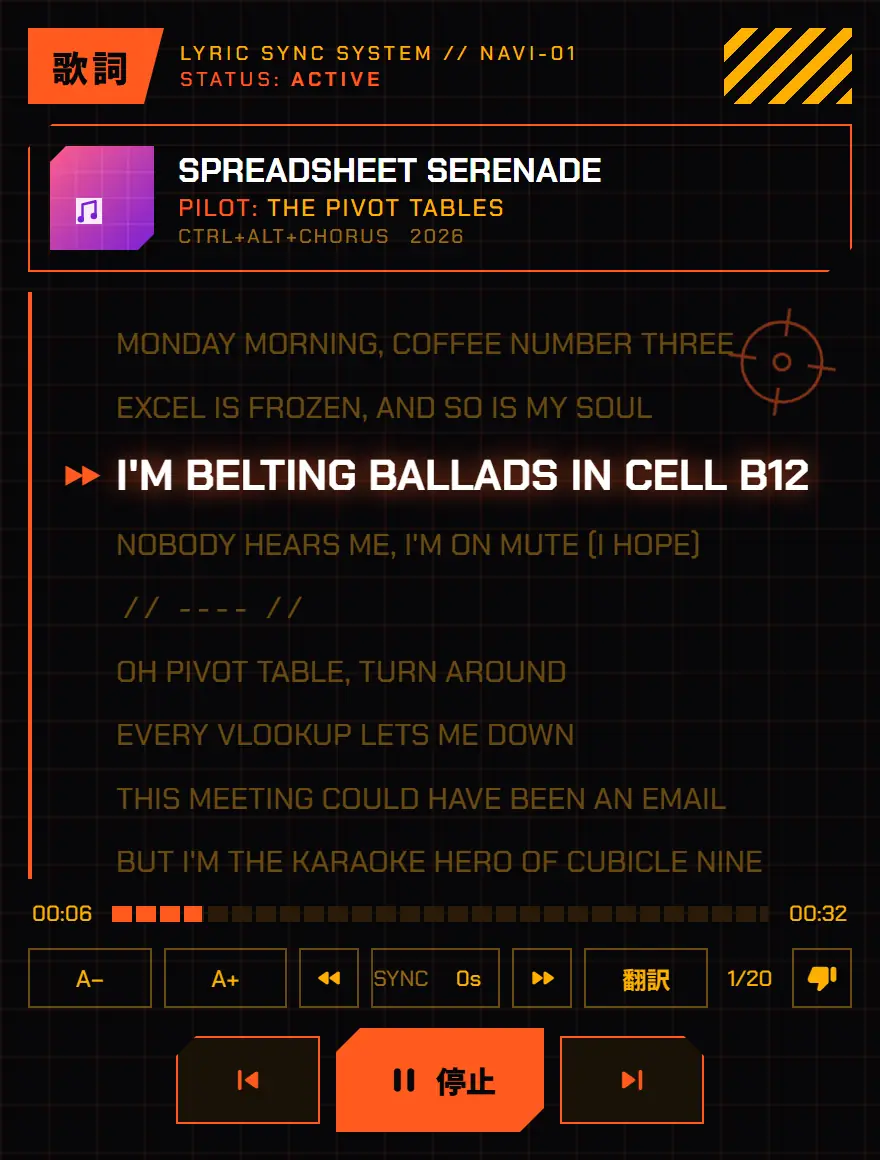
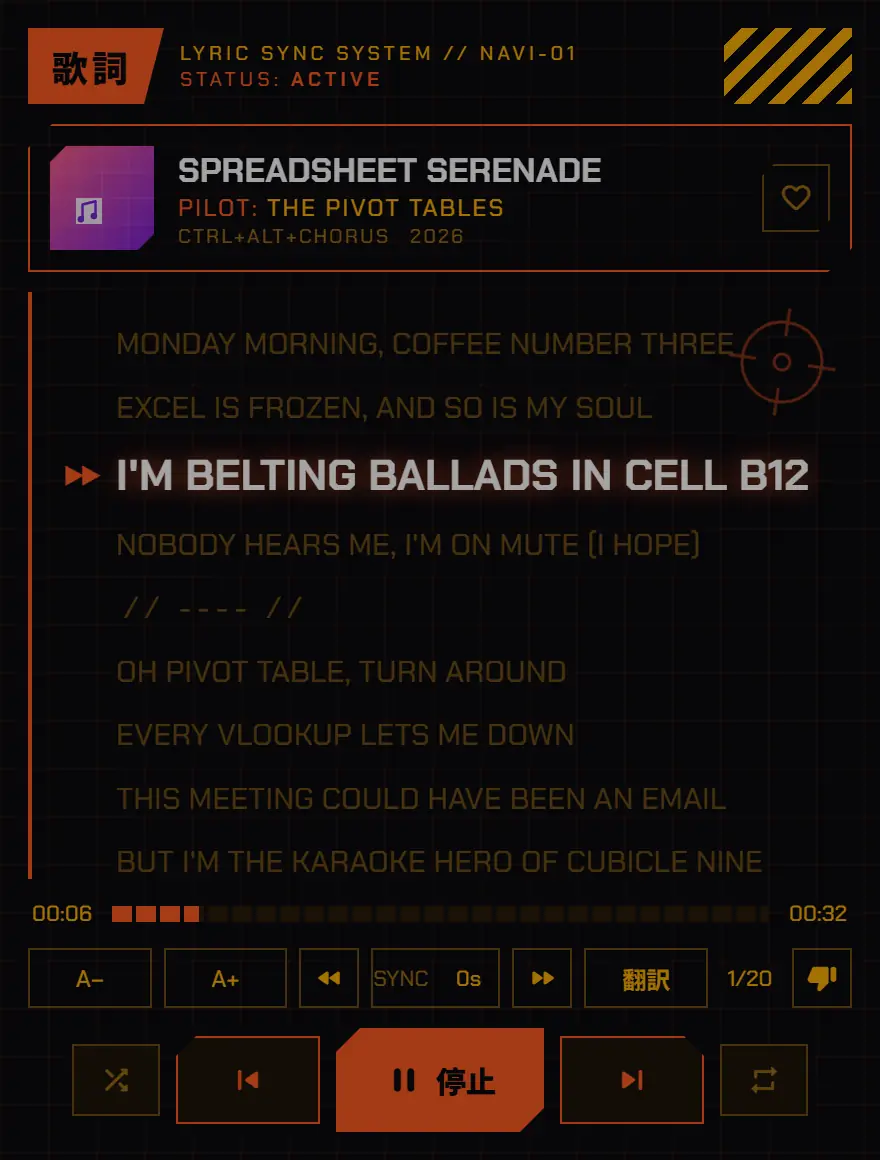
feat(landing): el demo muestra los controles nuevos de la v1.7.0
Las skins sincronizadas ya traían btn-like, btn-shuffle y btn-repeat, pero
con hidden: la extensión los muestra solo si la plataforma los soporta
(setupExtraControls) y el demo no replicaba ese paso. Tampoco tenía la
barra de tiempo interactiva.

- Me gusta / aleatorio / repetir visibles en todas las skins y con el mismo
  estado que la extensión: aria-pressed, data-repeat (off -> all -> one),
  íconos alternos (like/liked, repeat/repeat_one) y etiqueta del modo de
  repetición en EN/ES.
- Barra de tiempo: versión del demo de setupSeekBar. Pista = padre de
  #progress-bar, área de captura +-8 px, el salto ocurre al soltar (durante
  el arrastre solo se mueve la barra), role="slider" con flechas de 5 s,
  Home y End. Listeners en el document para sobrevivir a los cambios de skin.
- Capturas del carrusel (assets/skins/*.webp) regeneradas con
  scripts/capture-skins.py para que las tarjetas laterales también muestren
  los botones.

diff --git a/skins/demo.js b/skins/demo.js
@@ -26,6 +26,7 @@
       previous: 'Previous', searchingLyrics: 'Searching lyrics...', syncEarlier: 'Sync earlier',
       syncLater: 'Sync later', translateLyrics: 'Translate lyrics',
       likeSong: 'Like song', shuffle: 'Shuffle', repeat: 'Repeat',
+      repeatOff: 'Repeat: off', repeatAll: 'Repeat: all', repeatOne: 'Repeat: one',
     },
     es: {
       adPlaying: 'Anuncio en reproducción...', decreaseFontSize: 'Reducir tamaño de fuente',
@@ -33,6 +34,7 @@
       next: 'Siguiente', playPause: 'Reproducir/Pausar', previous: 'Anterior', searchingLyrics: 'Buscando letra...',
       syncEarlier: 'Sincronizar antes', syncLater: 'Sincronizar después', translateLyrics: 'Traducir letra',
       likeSong: 'Me gusta', shuffle: 'Aleatorio', repeat: 'Repetir',
+      repeatOff: 'Repetir: desactivado', repeatAll: 'Repetir: todas', repeatOne: 'Repetir: una',
     },
   };
 
@@ -102,6 +104,9 @@
     visible: true,
     translated: false,
     fontDelta: 0,
+    liked: false,
+    shuffle: false,
+    repeat: 'off', // off -> all -> one, como cycleRepeat en los adapters
     offset: 0,
     version: 1,
     activeIndex: -1,
@@ -233,7 +238,46 @@
       btn.classList.add('btn-dislike-cycle');
       setTimeout(() => btn.classList.remove('btn-dislike-cycle'), 600);
     });
+
+    // Me gusta / aleatorio / repetir (v1.7.0). Vienen con hidden en todas las skins y la
+    // extensión los muestra solo si la plataforma los soporta (setupExtraControls en
+    // content.entry.js); en el demo se muestran siempre, con el mismo estado:
+    // aria-pressed, data-repeat e íconos alternos.
+    ['btn-like', 'btn-shuffle', 'btn-repeat'].forEach((id) => { if ($(id)) $(id).hidden = false; });
+    on('btn-like', () => { state.liked = !state.liked; renderExtras(); });
+    on('btn-shuffle', () => { state.shuffle = !state.shuffle; renderExtras(); });
+    on('btn-repeat', () => {
+      const modes = ['off', 'all', 'one'];
+      state.repeat = modes[(modes.indexOf(state.repeat) + 1) % modes.length];
+      renderExtras();
+    });
+    renderExtras();
     renderPlay();
+    setupSeekTrack();
+  }
+
+  function renderExtras() {
+    const toggleIcons = (btn, showSel, hideSel) => {
+      btn.querySelectorAll(showSel).forEach((el) => { el.style.display = ''; });
+      btn.querySelectorAll(hideSel).forEach((el) => { el.style.display = 'none'; });
+    };
+    const like = $('btn-like');
+    if (like) {
+      like.setAttribute('aria-pressed', String(state.liked));
+      if (state.liked) toggleIcons(like, '.liked-icon', '.like-icon');
+      else toggleIcons(like, '.like-icon', '.liked-icon');
+    }
+    $('btn-shuffle')?.setAttribute('aria-pressed', String(state.shuffle));
+    const repeat = $('btn-repeat');
+    if (repeat) {
+      repeat.dataset.repeat = state.repeat;
+      repeat.setAttribute('aria-pressed', String(state.repeat !== 'off'));
+      if (state.repeat === 'one') toggleIcons(repeat, '.repeat-one-icon', '.repeat-icon');
+      else toggleIcons(repeat, '.repeat-icon', '.repeat-one-icon');
+      const label = MESSAGES[state.lang][{ off: 'repeatOff', all: 'repeatAll', one: 'repeatOne' }[state.repeat]];
+      repeat.title = label;
+      repeat.setAttribute('aria-label', label);
+    }
   }
 
   function on(id, fn) { $(id)?.addEventListener('click', fn); }
@@ -344,10 +388,96 @@
     last = now;
     if (state.playing && state.visible && $('lyrics-container')) {
       state.time = (state.time + dt) % DURATION;
-      render();
+      // Durante el arrastre de la barra solo se mueve la barra (como isSeekingBar)
+      if (!seeking) render();
     }
     requestAnimationFrame(tick);
   }
+
+  // Barra de tiempo interactiva (v1.7.0), versión del demo de setupSeekBar en
+  // content.entry.js: la pista es el padre de #progress-bar, área de captura ±8px por
+  // geometría (las pistas miden 1-14px), el salto ocurre al soltar y ←/→ mueven 5 s.
+  const SEEK_HIT_PAD = 8;
+  const SEEK_KEY_STEP = 5;
+  let seeking = false;
+
+  const getTrack = () => {
+    const track = $('progress-bar')?.parentElement;
+    return track && track !== document.body ? track : null;
+  };
+
+  function setupSeekTrack() {
+    const track = getTrack();
+    if (!track) return;
+    track.classList.add('navi-seekable');
+    track.setAttribute('role', 'slider');
+    track.tabIndex = 0;
+    track.setAttribute('aria-label', state.lang === 'es' ? 'Barra de tiempo' : 'Seek bar');
+    track.setAttribute('aria-valuemin', '0');
+    track.setAttribute('aria-valuemax', String(Math.round(DURATION)));
+  }
+
+  function paintSeek(time) {
+    const bar = $('progress-bar');
+    if (bar) bar.style.width = `${Math.min(100, (time / DURATION) * 100)}%`;
+    if ($('current-time')) $('current-time').textContent = fmt(time);
+    getTrack()?.setAttribute('aria-valuenow', String(Math.round(time)));
+  }
+
+  function commitSeek(time) {
+    state.time = Math.max(0, Math.min(DURATION - 0.5, time));
+    paintSeek(state.time);
+    render();
+  }
+
+  const ratioAt = (t, clientX) => {
+    const r = t.getBoundingClientRect();
+    return r.width > 0 ? Math.max(0, Math.min(1, (clientX - r.left) / r.width)) : 0;
+  };
+  const hitsTrack = (t, e) => {
+    const r = t.getBoundingClientRect();
+    return e.clientX >= r.left && e.clientX <= r.right &&
+      e.clientY >= r.top - SEEK_HIT_PAD && e.clientY <= r.bottom + SEEK_HIT_PAD;
+  };
+
+  // En el document: sobrevive a los cambios de skin (mount reemplaza el body)
+  document.addEventListener('pointerdown', (e) => {
+    if (e.button !== 0) return;
+    const t = getTrack();
+    if (!t || !hitsTrack(t, e)) return;
+    // No robarle el clic a un botón vecino que cae dentro del margen
+    if (e.target !== t && e.target.closest?.('button, a, input')) return;
+    e.preventDefault();
+    seeking = true;
+    t.classList.add('is-seeking');
+    paintSeek(ratioAt(t, e.clientX) * DURATION);
+
+    const onMove = (ev) => paintSeek(ratioAt(t, ev.clientX) * DURATION);
+    const onUp = (ev) => {
+      document.removeEventListener('pointermove', onMove);
+      document.removeEventListener('pointerup', onUp);
+      document.removeEventListener('pointercancel', onUp);
+      t.classList.remove('is-seeking');
+      seeking = false;
+      if (ev.type === 'pointerup') commitSeek(ratioAt(t, ev.clientX) * DURATION);
+    };
+    document.addEventListener('pointermove', onMove);
+    document.addEventListener('pointerup', onUp);
+    document.addEventListener('pointercancel', onUp);
+  }, true);
+
+  document.addEventListener('keydown', (e) => {
+    const t = getTrack();
+    if (!t || e.target !== t || e.altKey || e.ctrlKey || e.metaKey) return;
+    let target = null;
+    if (e.key === 'ArrowLeft') target = state.time - SEEK_KEY_STEP;
+    else if (e.key === 'ArrowRight') target = state.time + SEEK_KEY_STEP;
+    else if (e.key === 'Home') target = 0;
+    else if (e.key === 'End') target = DURATION - 1;
+    if (target === null) return;
+    e.preventDefault();
+    commitSeek(target);
+  }, true);
 
   // Parpadeo aleatorio de la skin CRT (como scheduleCrtGlitch en la extensión)
   const GLITCH_SELECTOR = '#song-title, #song-artist, #song-album, #song-year, .toolbar-btn, .controls button, #offset-value, #version-badge, .crt-time, .crt-sync-label, .crt-now';
